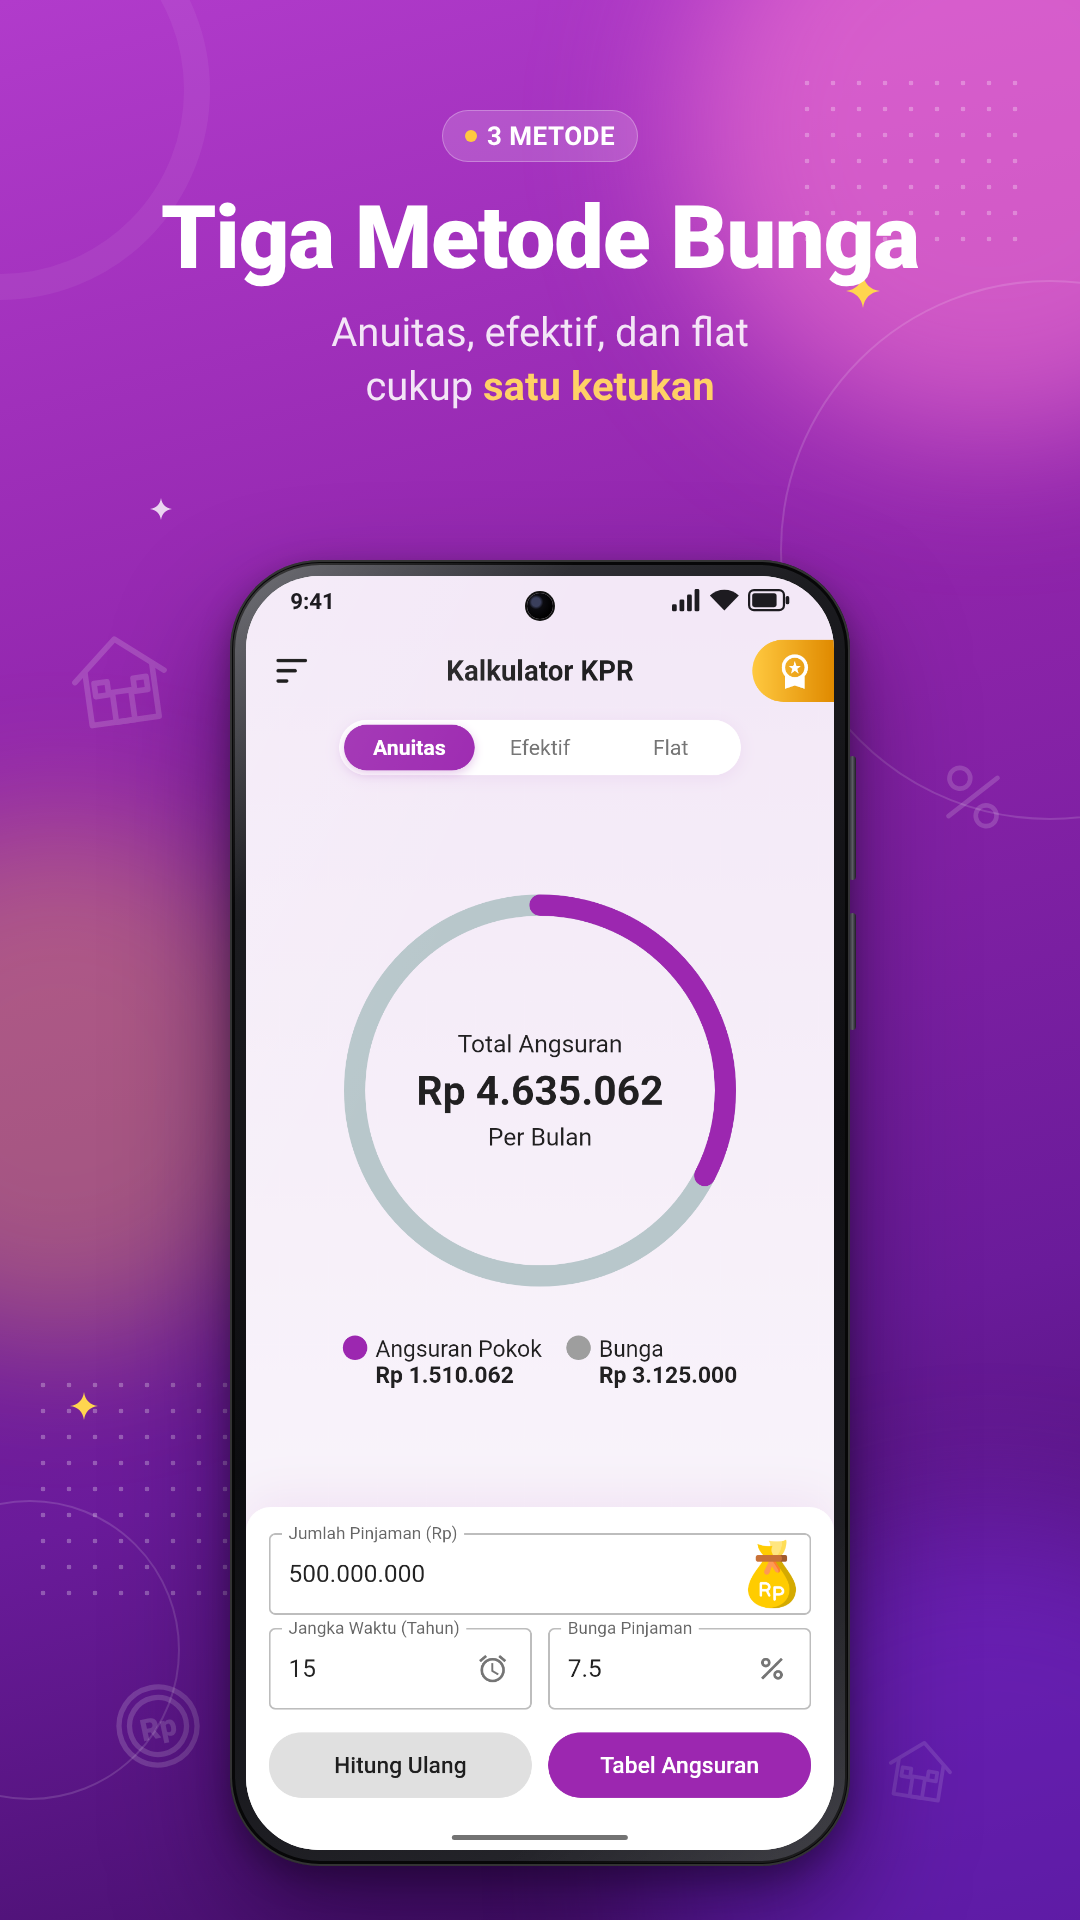
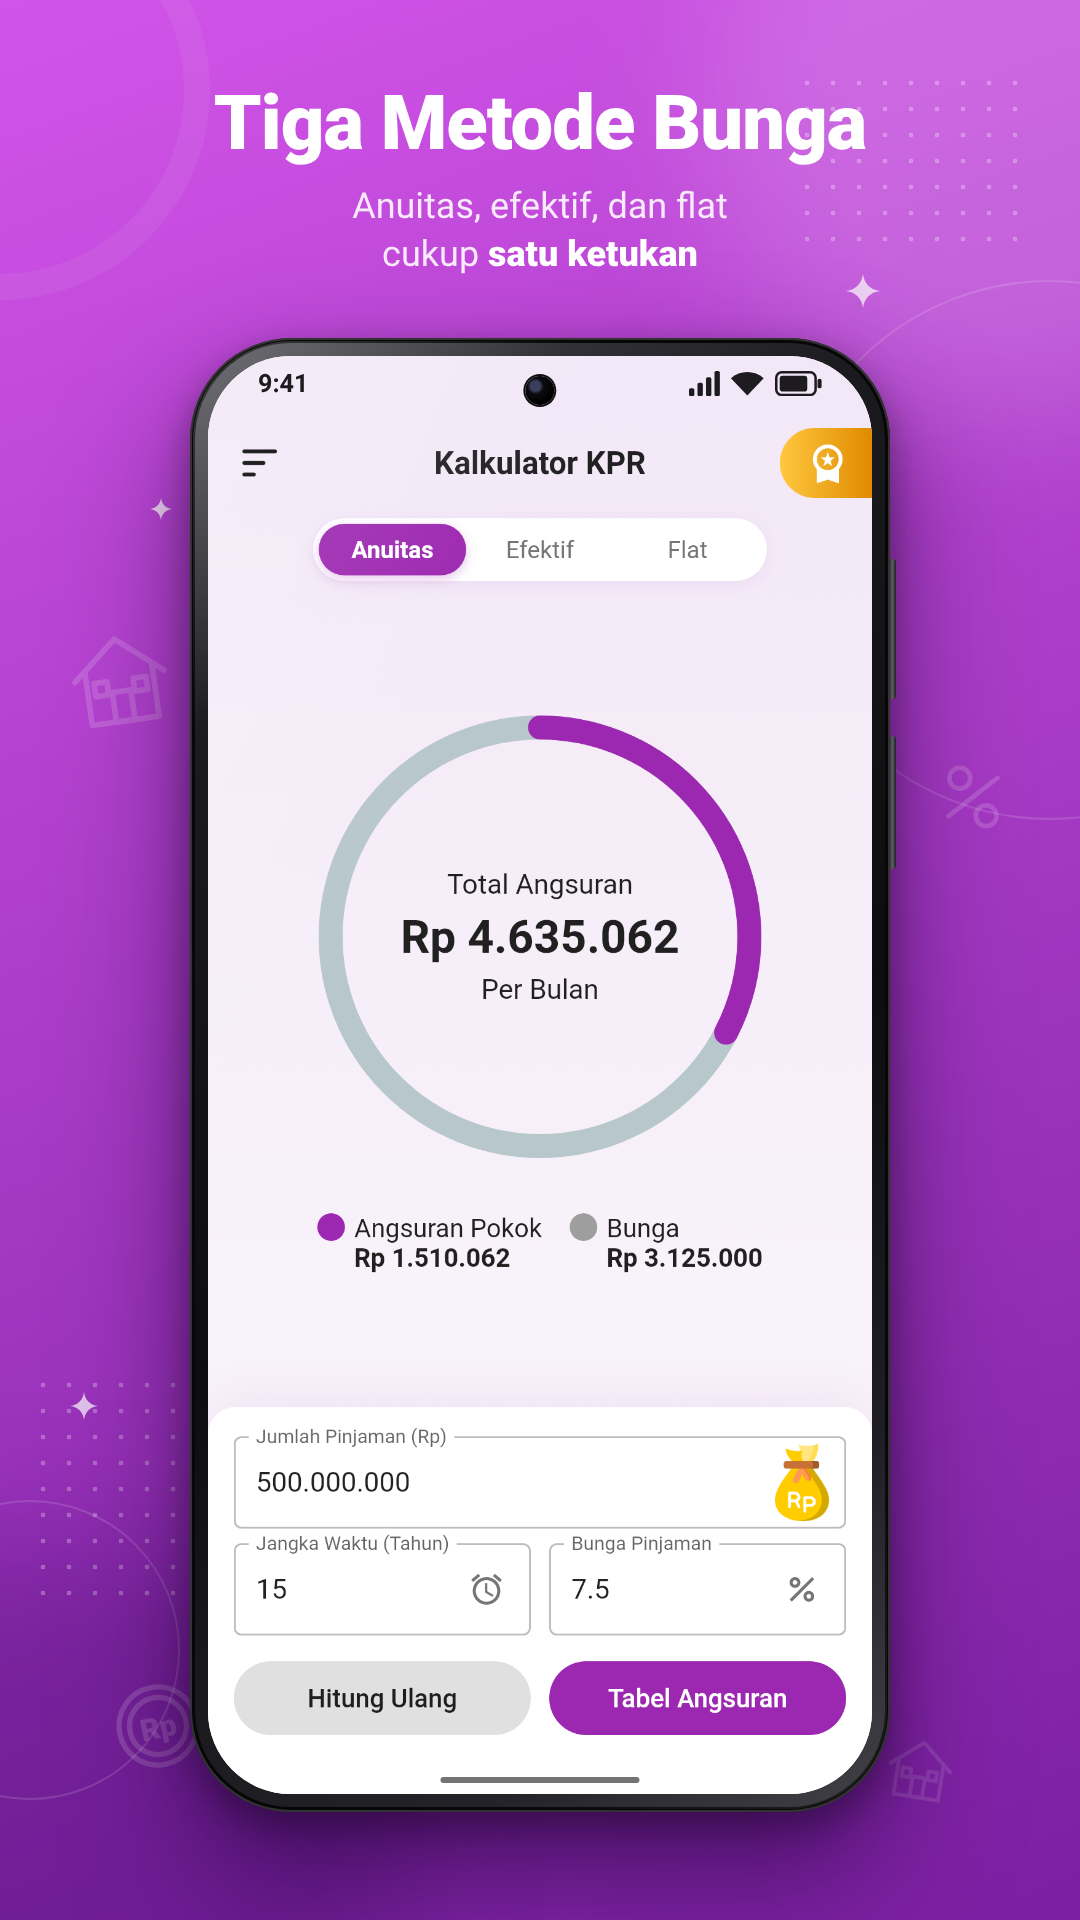
chore: perbarui aset store (mockup lebih besar, tanpa badge, gradien sederhana)
Claude-Session: https://claude.ai/code/session_01YQzyrGfQwytNAYgmm4mQM1

diff --git a/store/source/gen.py b/store/source/gen.py
@@ -11,7 +11,7 @@ BASE_CSS = """
 * { box-sizing: border-box; margin: 0; padding: 0; }
 html, body { width: __W__px; height: __H__px; overflow: hidden; }
 body { font-family: 'R', sans-serif; color: #fff; position: relative;
-  background: linear-gradient(165deg, #B13BCB 0%, #8E24AA 38%, #6A1B9A 70%, #3F0D63 100%); }
+  background: linear-gradient(160deg, #D154E8 0%, #7B1FA2 100%); }
 
 /* ---------- dekorasi ---------- */
 .blob { position: absolute; border-radius: 50%; filter: blur(70px); }
@@ -21,25 +21,12 @@ body { font-family: 'R', sans-serif; color: #fff; position: relative;
   background-image: radial-gradient(rgba(255,255,255,.55) 2.2px, transparent 2.6px);
   background-size: 26px 26px; }
 .deco { position: absolute; opacity: .16; }
-.spark { position: absolute; color: #FFD54F; }
+.spark { position: absolute; color: #fff; opacity: .7; }
 
 /* ---------- teks ---------- */
-.eyebrow { display: inline-flex; align-items: center; gap: 10px; padding: 10px 22px;
-  border-radius: 40px; background: rgba(255,255,255,.16); border: 1.5px solid rgba(255,255,255,.28);
-  font-weight: 700; font-size: 26px; letter-spacing: .5px; }
-.eyebrow i { width: 12px; height: 12px; border-radius: 50%; background: #FFC940; display: block; }
 h1 { font-weight: 900; line-height: 1.05; letter-spacing: -1px; }
 .sub { font-weight: 400; color: rgba(255,255,255,.88); line-height: 1.35; }
-.hl { color: #FFD166; }
-
-/* ---------- kartu kecil melayang ---------- */
-.chip { position: absolute; display: flex; align-items: center; gap: 16px; padding: 18px 24px;
-  border-radius: 26px; background: rgba(255,255,255,.96); color: #2b123a;
-  box-shadow: 0 24px 50px rgba(30,0,50,.35); }
-.chip .ic { width: 58px; height: 58px; border-radius: 18px; display: flex; align-items: center;
-  justify-content: center; }
-.chip .t1 { font-size: 20px; color: #7a6a85; font-weight: 500; }
-.chip .t2 { font-size: 28px; font-weight: 900; color: #2b123a; }
+.hl { color: #fff; font-weight: 900; }
 
 /* ---------- mockup HP ---------- */
 .phone { --w: 600px; position: absolute; width: var(--w);
@@ -106,9 +93,8 @@ def decorations(variant=0):
     flip = variant % 2 == 1
     l, r = ('right', 'left') if flip else ('left', 'right')
     return f"""
-<div class="blob" style="width:620px;height:620px;{r}:-220px;top:-180px;background:rgba(255,128,214,.55)"></div>
-<div class="blob" style="width:520px;height:520px;{l}:-200px;top:820px;background:rgba(255,201,64,.32)"></div>
-<div class="blob" style="width:700px;height:700px;{r}:-260px;bottom:-300px;background:rgba(120,40,220,.55)"></div>
+<div class="blob" style="width:620px;height:620px;{r}:-240px;top:-200px;background:rgba(255,255,255,.16)"></div>
+<div class="blob" style="width:700px;height:700px;{l}:-300px;bottom:-320px;background:rgba(40,0,80,.25)"></div>
 <div class="ring" style="width:540px;height:540px;{r}:-240px;top:280px"></div>
 <div class="ring thick" style="width:420px;height:420px;{l}:-210px;top:-120px"></div>
 <div class="ring" style="width:300px;height:300px;{l}:-120px;bottom:120px"></div>
@@ -137,55 +123,43 @@ def write(name, html):
 # ---------------------------------------------------------------- slide intro
 intro = f"""
 {decorations(0)}
-<div style="position:absolute;left:0;right:0;top:118px;text-align:center;z-index:5">
-  <div style="display:inline-flex;align-items:center;gap:22px">
-    <img src="logo.png" style="width:104px;height:104px;border-radius:28px;background:#fff;box-shadow:0 18px 40px rgba(30,0,50,.35)">
-    <h1 style="font-size:84px;text-align:left">Kalkulator<br>KPR</h1>
+<div style="position:absolute;left:0;right:0;top:96px;text-align:center;z-index:5">
+  <div style="display:inline-flex;align-items:center;gap:18px">
+    <img src="logo.png" style="width:84px;height:84px;border-radius:22px;background:#fff;box-shadow:0 14px 32px rgba(30,0,50,.3)">
+    <h1 style="font-size:60px">Kalkulator KPR</h1>
   </div>
-  <p class="sub" style="font-size:40px;margin-top:34px">Simulasi cicilan rumah<br><b class="hl" style="font-weight:900">cepat, lengkap & akurat</b></p>
+  <p class="sub" style="font-size:36px;margin-top:24px">Simulasi cicilan rumah<br><b class="hl">cepat, lengkap & akurat</b></p>
 </div>
-{phone('grafik', 520, 'left:470px;top:700px;z-index:2', 8)}
-{phone('home', 560, 'left:96px;top:640px;z-index:3', -6)}
-<div class="chip" style="left:40px;top:1748px;z-index:6">
-  <div class="ic" style="background:linear-gradient(135deg,#D154E8,#7B1FA2)">
-    <svg width="34" viewBox="0 0 24 24" fill="#fff"><path d="M3 11 L12 3 L21 11 V21 H14 V15 H10 V21 H3Z"/></svg></div>
-  <div><div class="t1">Angsuran per bulan</div><div class="t2">Rp 4.635.062</div></div>
-</div>
-<div class="chip" style="right:44px;top:560px;z-index:6;padding:16px 22px">
-  <div class="ic" style="background:linear-gradient(135deg,#FFC940,#E08A00)">
-    <svg width="32" viewBox="0 0 24 24" fill="#fff"><path d="M12 2 L14.6 8.6 L21.6 9.2 L16.3 13.8 L17.9 20.6 L12 17 L6.1 20.6 L7.7 13.8 L2.4 9.2 L9.4 8.6Z"/></svg></div>
-  <div><div class="t1">Metode bunga</div><div class="t2" style="font-size:24px">Anuitas · Efektif · Flat</div></div>
-</div>
+{phone('grafik', 580, 'left:430px;top:440px;z-index:2', 7)}
+{phone('home', 620, 'left:80px;top:390px;z-index:3', -5)}
 """
 write('slide_01.html', page(1080, 1920, intro))
 
 # ------------------------------------------------------------- slide fitur
 FEATURES = [
-    ('home', 'Tiga Metode Bunga', 'Anuitas, efektif, dan flat<br>cukup <b class="hl">satu ketukan</b>', '3 METODE'),
-    ('grafik', 'Grafik Angsuran', 'Total bayar, sisa pinjaman, dan<br><b class="hl">pokok vs bunga</b> tiap tahun', 'VISUAL'),
-    ('tabel', 'Tabel Angsuran', 'Rincian pokok, bunga, dan sisa<br>pinjaman <b class="hl">sampai lunas</b>', 'DETAIL'),
-    ('daya_bayar', 'Cek Daya Bayar', 'Pastikan cicilan masih <b class="hl">aman</b><br>untuk penghasilan Anda', 'BARU'),
-    ('advanced', 'Fix & Floating', 'Simulasi bunga fix, floating,<br>dan <b class="hl">bunga berjenjang</b>', 'LANJUTAN'),
-    ('syariah', 'KPR Syariah', 'Akad <b class="hl">murabahah</b> &<br>musyarakah mutanaqisah', 'TANPA BUNGA'),
-    ('riwayat', 'Simpan Riwayat', 'Simpan simulasi, bandingkan,<br>lalu <b class="hl">ekspor ke PDF</b>', 'PRAKTIS'),
+    ('home', 'Tiga Metode Bunga', 'Anuitas, efektif, dan flat<br>cukup <b class="hl">satu ketukan</b>'),
+    ('grafik', 'Grafik Angsuran', 'Total bayar, sisa pinjaman, dan<br><b class="hl">pokok vs bunga</b> tiap tahun'),
+    ('tabel', 'Tabel Angsuran', 'Rincian pokok, bunga, dan sisa<br>pinjaman <b class="hl">sampai lunas</b>'),
+    ('daya_bayar', 'Cek Daya Bayar', 'Pastikan cicilan masih <b class="hl">aman</b><br>untuk penghasilan Anda'),
+    ('advanced', 'Fix & Floating', 'Simulasi bunga fix, floating,<br>dan <b class="hl">bunga berjenjang</b>'),
+    ('syariah', 'KPR Syariah', 'Akad <b class="hl">murabahah</b> &<br>musyarakah mutanaqisah'),
+    ('riwayat', 'Simpan Riwayat', 'Simpan simulasi, bandingkan,<br>lalu <b class="hl">ekspor ke PDF</b>'),
 ]
-for i, (shot, title, sub, eyebrow) in enumerate(FEATURES, start=2):
+for i, (shot, title, sub) in enumerate(FEATURES, start=2):
     body = f"""
 {decorations(i)}
-<div style="position:absolute;left:0;right:0;top:110px;text-align:center;z-index:5">
-  <span class="eyebrow"><i></i>{eyebrow}</span>
-  <h1 style="font-size:88px;margin-top:30px">{title}</h1>
-  <p class="sub" style="font-size:40px;margin-top:22px">{sub}</p>
+<div style="position:absolute;left:0;right:0;top:84px;text-align:center;z-index:5">
+  <h1 style="font-size:76px">{title}</h1>
+  <p class="sub" style="font-size:36px;margin-top:18px">{sub}</p>
 </div>
-{phone(shot, 620, 'left:230px;top:560px;z-index:3')}
+{phone(shot, 700, 'left:190px;top:338px;z-index:3')}
 """
     write(f'slide_{i:02d}.html', page(1080, 1920, body))
 
 # ---------------------------------------------------------- feature graphic
 fg = f"""
-<div class="blob" style="width:420px;height:420px;right:-60px;top:-160px;background:rgba(255,128,214,.6)"></div>
-<div class="blob" style="width:360px;height:360px;left:-140px;bottom:-200px;background:rgba(255,201,64,.35)"></div>
-<div class="blob" style="width:420px;height:420px;right:120px;bottom:-260px;background:rgba(120,40,220,.6)"></div>
+<div class="blob" style="width:420px;height:420px;right:-60px;top:-180px;background:rgba(255,255,255,.16)"></div>
+<div class="blob" style="width:420px;height:420px;left:-160px;bottom:-240px;background:rgba(40,0,80,.25)"></div>
 <div class="ring" style="width:380px;height:380px;right:-120px;top:120px"></div>
 <div class="ring thick" style="width:300px;height:300px;left:-150px;top:-150px;border-width:20px"></div>
 <div class="dots" style="width:170px;height:120px;left:560px;top:30px;background-size:22px 22px"></div>
@@ -200,13 +174,9 @@ fg = f"""
     <h1 style="font-size:58px">Kalkulator KPR</h1>
   </div>
   <p class="sub" style="font-size:28px;margin-top:20px">Simulasi cicilan rumah<br><b class="hl" style="font-weight:900">cepat, lengkap & akurat</b></p>
-  <div style="display:flex;gap:10px;margin-top:26px;flex-wrap:wrap;max-width:440px">
-    <span class="eyebrow" style="font-size:18px;padding:8px 16px"><i></i>Anuitas · Efektif · Flat</span>
-    <span class="eyebrow" style="font-size:18px;padding:8px 16px"><i></i>KPR Syariah</span>
-  </div>
 </div>
-{phone('grafik', 270, 'left:800px;top:70px;z-index:2', 9)}
-{phone('home', 290, 'left:610px;top:44px;z-index:3', -5)}
+{phone('grafik', 300, 'left:780px;top:60px;z-index:2', 9)}
+{phone('home', 320, 'left:580px;top:36px;z-index:3', -5)}
 """
 write('feature_graphic.html', page(1024, 500, fg))
 print('ok')
